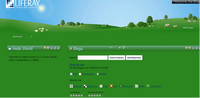
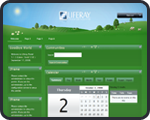
murali-theme
git-svn-id: svn://svn.liferay.com/repos/public/plugins/trunk@21208 05bdf26c-840f-0410-9ced-eb539d925f36

diff --git a/themes/murali-theme/docroot/_diffs/css/custom.css b/themes/murali-theme/docroot/_diffs/css/custom.css
@@ -133,9 +133,12 @@ body {
 
 .portlet-content {
 	background-position: left bottom;
-	color: #FFF;
 	font: 12px/1.5 Lucida Sans Unicode, Lucida Grande, sans-serif;
 	padding: 15px 25px;
+}
+
+.portlet-content, .portlet-content a {
+	color: #FFF;
 }
 
 
@@ -185,6 +188,10 @@ input[type="submit"]:hover, input[type="button"]:hover, input[type="reset"]:hove
 
 /* ---------- Calendar ---------- */
 
-.portlet-calendar .portlet-content {
+.portlet-calendar .portlet-content, .portlet-calendar .portlet-content a {
 	color: #000;
+}
+
+.portlet-calendar .ui-tabs a {
+	color: #FFF;
 }
